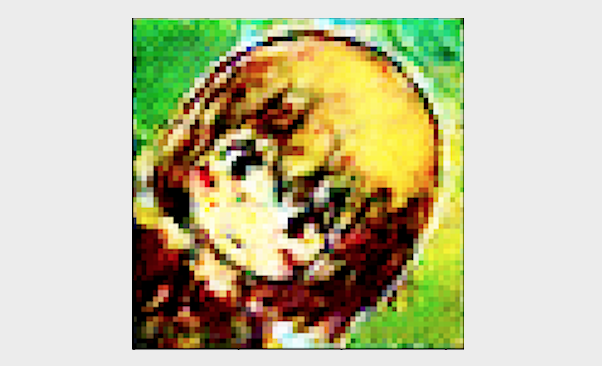
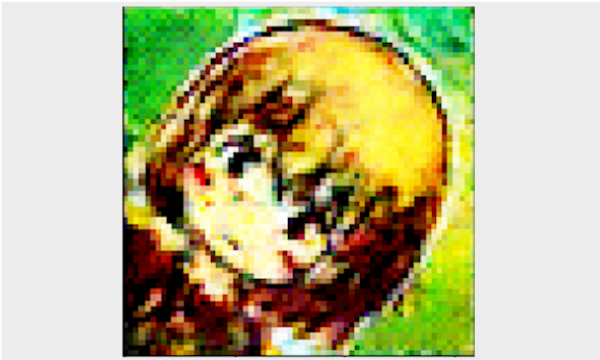
melicon generatorに関して変更

diff --git a/pages/works.vue b/pages/works.vue
@@ -80,7 +80,7 @@ import ContentCellWithPicture from "./component/Versatile/ContentCellWithPicture
 
 import image_koudaisai from '~/assets/img/koudaisai2018.png';
 import image_mascot from '~/assets/img/mascot.png';
-import image_melicon_generator_2 from '~/assets/img/melicon_generator_2.png';
+import image_melicon_generator_2 from '~/assets/img/melicon_generator_2.gif';
 import image_melicon_generator from '~/assets/img/melicon_generator.png';
 import image_serpent from '~/assets/img/serpent.png';
 
